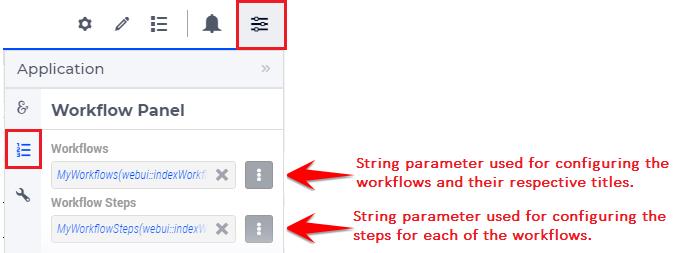
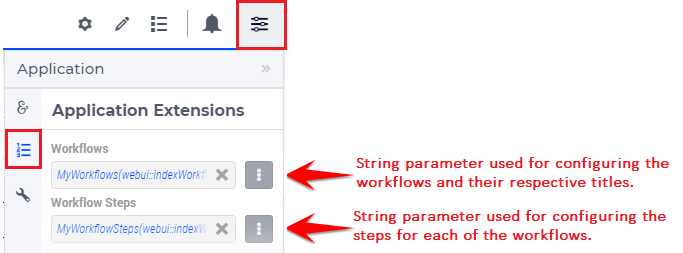
Added Status Bar Section to Application Settings

Changed region(s): [[0.0615, 0.415, 0.369, 0.4704]]

diff --git a/webui/application-settings.rst b/webui/application-settings.rst
@@ -190,7 +190,7 @@ If you need to validate some data or actions and maybe to retain the user on the
 Configuring the string parameters in the Application settings
 +++++++++++++++++++++++++++++++++++++++++++++++++++++++++++++
 
-To enable the Workflow Panel click on the Workflow Panel icon |workflowicon| of the Application Settings and add the configured string parameters to the respective fields as illustrated below:
+To enable the Workflow Panel click on the Application Extensions icon |workflowicon| of the Application Settings and add the configured string parameters to the respective fields as illustrated below:
 
 .. image:: images/Workflow_ConfiguringStringParameters.png
     :align: center
@@ -198,6 +198,70 @@ To enable the Workflow Panel click on the Workflow Panel icon |workflowicon| of 
 Once the string parameters are added in their respective fields, the Workflow Panel functionality will become visible on the pages which are part of a workflow.
 
 This sub-section concludes the explanation of the Workflow Panel functionality configured in the Application Settings of a WebUI app.
+
+Status Bar
+----------
+
+.. important:: Status Bar is available in software versions from AIMMS 4.70 onwards as part of Experimental Features. Please reach out to User Support on how to enable Experimental Features.
+
+The Status Bar is used to display custom messages i.e status messages, like the dataset that is currently in use or the connection status to a database to users. The Status Bar is displayed in the footer across the application, on all pages. These status messages can be updated when necessary or as required.
+
+.. image:: images/StatusBar_FullPage.png
+    :align: center
+
+A status message typically has a header or title, an icon with a color and the actual message. A tooltip is display when the user hovers over the message, if configured. A procedure can also be configured for each status message such that it is executed when the user clicks on the specific message.
+
+.. image:: images/StatusBar_StatusBar.png
+    :align: center
+
+.. image:: images/StatusBar_StatusBarDescription.png
+    :align: center
+
+If a procedure is configured for a status message, when the user hovers over the message the text is highlighted in blue and the pointer changes to indicate to the user that they can click and execute a procedure.
+
+.. image:: images/StatusBar_StatusBarProcedure.png
+    :align: center
+
+Messages in the Status Bar can be configured by the application developer via the AIMMS model and defined in the Application Settings under the Application Extensions section. 
+
+A new section, StatusBar Support, has been defined in the AIMMS WebUI system library to configure the Status Bar and the messages.
+
+StatusBarSpecification - This set is used to configure messages in the Status Bar. The attributes of this set are the following:
+
+* :token:`header` - The Header/Title text you want to display for the status message. This is an optional field. If left empty, no value is displayed.
+* :token:`icon` - The icon you want to associate with the message. You can select from a list of 1600+ icons, the reference can be found in the `icon list <../_static/aimms-icons/icons-reference.html>`_. `Custom icons <folder.html#custom-icon-sets>`_ can also be used if required. This is an optional field and if left empty, no icon will be displayed.
+* :token:`color` - The color you want to display for the icon configured. This is an optional field. You can also use Hex codes eg: #FF0000 for Red.
+* :token:`text` - The text you want to display for the status message. This is a required field.
+* :token:`tooltip` - The text to be displayed when the user hovers over the status message. This is an optional field and if left empty, no tooltip is displayed.
+* :token:`procedure` - The procedure you want to execute when the respective status message is clicked. This is an optional field.
+* :token:`state` - This property holds three values, Active (displayed and clickable if procedure is configured), Inactive (displayed and not clickable) and Hidden (not displayed). By default, the state is Hidden. This is an optional field and if left empty, the state is hidden.
+
+Configuring messages in the Status Bar
+++++++++++++++++++++++++++++++++++++++
+
+Create a string parameter indexed by the ExtensionOrder and StatusBarSpecification. Let's call this :token:`MyStatusBar(webui::indexApplicationExtension,webui::indexStatusBarSpec)`. Right click the string parameter and click on the Data option to open the data page. Add the details for the status messages you would like to display. For example:
+
+.. image:: images/StatusBar_StringprarmeterDefinition.png
+    :align: center
+
+In the illustrated example, we have defined four status messages. We display the Active and Inactive actions.  
+
+.. image:: images/StatusBar_StringprarmeterData.png
+    :align: center
+
+There is no limit to the number of status messages that you can configure. AIMMS recommends not more than seven.
+
+Configuring the string parameter in the Application settings
+++++++++++++++++++++++++++++++++++++++++++++++++++++++++++++
+
+To enable the Status Bar, click on the Application Extension icon |workflowicon| of the Application Settings and add the configured string parameter to the Status Bar field as illustrated below:
+
+.. image:: images/StatusBar_ApplicationExtensionSettings.png
+    :align: center
+
+Once the string parameter is added, the Status Bar is displayed with the configured status messages, in the footer of the application.
+
+This sub-section concludes the explanation of the Status Bar functionality configured in the Application Settings of a WebUI app.
 
 
 Miscellaneous options
